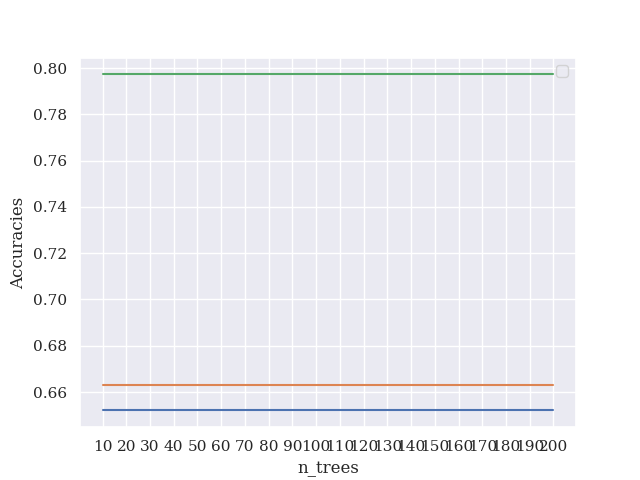
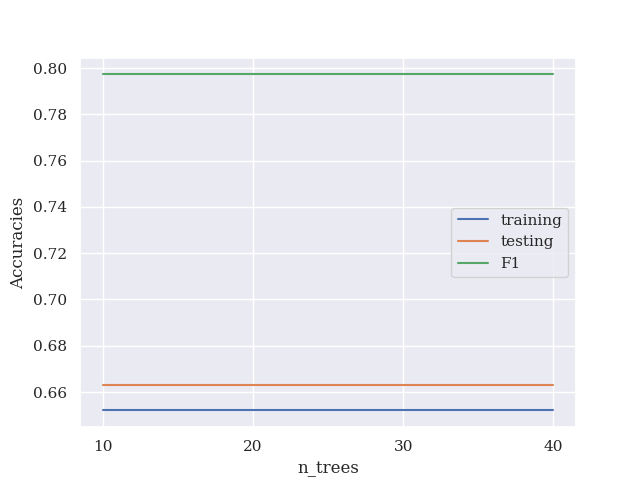
Added subsampling ability to decisiontreeclassifier

diff --git a/src/tree.py b/src/tree.py
@@ -3,177 +3,194 @@ import random
 from statistics import mode
 
 class Node():
-    """
-    Node of decision tree
+	"""
+	Node of decision tree
 
-    Parameters:
-    -----------
-    prediction: int
-        Class prediction at this node
-    feature: int
-        Index of feature used for splitting on
-    split: int
-        Categorical value for the threshold to split on for the feature
-    left_tree: Node
-        Left subtree
-    right_tree: Node
-        Right subtree
-    """
-    def __init__(self, prediction, feature, split, left_tree, right_tree):
-        self.prediction = prediction
-        self.feature = feature
-        self.split = split
-        self.left_tree = left_tree
-        self.right_tree = right_tree
+	Parameters:
+	-----------
+	prediction: int
+		Class prediction at this node
+	feature: int
+		Index of feature used for splitting on
+	split: int
+		Categorical value for the threshold to split on for the feature
+	left_tree: Node
+		Left subtree
+	right_tree: Node
+		Right subtree
+	"""
+	def __init__(self, prediction, feature, split, left_tree, right_tree):
+		self.prediction = prediction
+		self.feature = feature
+		self.split = split
+		self.left_tree = left_tree
+		self.right_tree = right_tree
 
 
 class DecisionTreeClassifier():
-    """
-    Decision Tree Classifier. Class for building the decision tree and making predictions
+	"""
+	Decision Tree Classifier. Class for building the decision tree and making predictions
 
-    Parameters:
-    ------------
-    max_depth: int
-        The maximum depth to build the tree. Root is at depth 0, a single split makes depth 1 (decision stump)
-    """
+	Parameters:
+	------------
+	max_depth: int
+		The maximum depth to build the tree. Root is at depth 0, a single split makes depth 1 (decision stump)
+	"""
 
-    def __init__(self, max_depth=None):
-        self.max_depth = max_depth
+	def __init__(self, max_depth=None, max_features=0):
+		self.max_depth = max_depth
+		self.max_features = max_features
+		
+	# take in features X and labels y
+	# build a tree
+	def fit(self, X, y):
+		self.num_classes = len(set(y))
+		self.root = self.build_tree(X, y, depth=1)
+		
 
-    # take in features X and labels y
-    # build a tree
-    def fit(self, X, y):
-        self.num_classes = len(set(y))
-        self.root = self.build_tree(X, y, depth=1)
+	# make prediction for each example of features X
+	def predict(self, X):
+		preds = [self._predict(example) for example in X]
 
-    # make prediction for each example of features X
-    def predict(self, X):
-        preds = [self._predict(example) for example in X]
+		return preds
 
-        return preds
+	# prediction for a given example
+	# traverse tree by following splits at nodes
+	def _predict(self, example):
+		node = self.root
+		while node.left_tree:
+			if example[node.feature] < node.split:
+				node = node.left_tree
+			else:
+				node = node.right_tree
+		return node.prediction
 
-    # prediction for a given example
-    # traverse tree by following splits at nodes
-    def _predict(self, example):
-        node = self.root
-        while node.left_tree:
-            if example[node.feature] < node.split:
-                node = node.left_tree
-            else:
-                node = node.right_tree
-        return node.prediction
+	# accuracy
+	def accuracy_score(self, X, y):
+		preds = self.predict(X)
+		accuracy = (preds == y).sum()/len(y)
+		return accuracy
 
-    # accuracy
-    def accuracy_score(self, X, y):
-        preds = self.predict(X)
-        accuracy = (preds == y).sum()/len(y)
-        return accuracy
+	# function to build a decision tree
+	def build_tree(self, X, y, depth):
+		num_samples, num_features = X.shape
+		# which features we are considering for splitting on
+		self.features_idx = np.arange(0, X.shape[1])
 
-    # function to build a decision tree
-    def build_tree(self, X, y, depth):
-        num_samples, num_features = X.shape
-        # which features we are considering for splitting on
-        self.features_idx = np.arange(0, X.shape[1])
+		# store data and information about best split
+		# used when building subtrees recursively
+		best_feature = None
+		best_split = None
+		best_gain = 0.0
+		best_left_X = None
+		best_left_y = None
+		best_right_X = None
+		best_right_y = None
 
-        # store data and information about best split
-        # used when building subtrees recursively
-        best_feature = None
-        best_split = None
-        best_gain = 0.0
-        best_left_X = None
-        best_left_y = None
-        best_right_X = None
-        best_right_y = None
+		# what we would predict at this node if we had to
+		# majority class
+		num_samples_per_class = [np.sum(y == i) for i in range(self.num_classes)]
+		prediction = np.argmax(num_samples_per_class)
+		
+		# Added code to let RandomForest bag the features
+		if(self.max_features):
+			max_features = []
+			temp_feat = list(self.features_idx)
+			
+			for i in range(self.max_features):
+				rand = random.randint(0,len(temp_feat)-1)
+				max_features.append(temp_feat[rand])
+				temp_feat.pop(rand)
 
-        # what we would predict at this node if we had to
-        # majority class
-        num_samples_per_class = [np.sum(y == i) for i in range(self.num_classes)]
-        prediction = np.argmax(num_samples_per_class)
+		# If no max_features were specified when creating this tree, we don't subsample
+		else:
+			max_features = self.features_idx
+		print("max_features: {}".format(max_features))
 
-        # if we haven't hit the maximum depth, keep building
-        if depth <= self.max_depth:
-            # consider each feature
-            for feature in self.features_idx:
-                # consider the set of all values for that feature to split on
-                possible_splits = np.unique(X[:, feature])
-                for split in possible_splits:
-                    # get the gain and the data on each side of the split
-                    # >= split goes on right, < goes on left
-                    gain, left_X, right_X, left_y, right_y = self.check_split(X, y, feature, split)
-                    # if we have a better gain, use this split and keep track of data
-                    if gain > best_gain:
-                        best_gain = gain
-                        best_feature = feature
-                        best_split = split
-                        best_left_X = left_X
-                        best_right_X = right_X
-                        best_left_y = left_y
-                        best_right_y = right_y
-        
-        # if we haven't hit a leaf node
-        # add subtrees recursively
-        if best_gain > 0.0:
-            left_tree = self.build_tree(best_left_X, best_left_y, depth=depth+1)
-            right_tree = self.build_tree(best_right_X, best_right_y, depth=depth+1)
-            return Node(prediction=prediction, feature=best_feature, split=best_split, left_tree=left_tree, right_tree=right_tree)
+		# if we haven't hit the maximum depth, keep building
+		if depth <= self.max_depth:
+			# consider each feature
+			for feature in max_features:
+				# consider the set of all values for that feature to split on
+				possible_splits = np.unique(X[:, feature])
+				for split in possible_splits:
+					# get the gain and the data on each side of the split
+					# >= split goes on right, < goes on left
+					gain, left_X, right_X, left_y, right_y = self.check_split(X, y, feature, split)
+					# if we have a better gain, use this split and keep track of data
+					if gain > best_gain:
+						best_gain = gain
+						best_feature = feature
+						best_split = split
+						best_left_X = left_X
+						best_right_X = right_X
+						best_left_y = left_y
+						best_right_y = right_y
+		
+		# if we haven't hit a leaf node
+		# add subtrees recursively
+		if best_gain > 0.0:
+			left_tree = self.build_tree(best_left_X, best_left_y, depth=depth+1)
+			right_tree = self.build_tree(best_right_X, best_right_y, depth=depth+1)
+			return Node(prediction=prediction, feature=best_feature, split=best_split, left_tree=left_tree, right_tree=right_tree)
 
-        # if we did hit a leaf node
-        return Node(prediction=prediction, feature=best_feature, split=best_split, left_tree=None, right_tree=None)
-
-
-    # gets data corresponding to a split by using numpy indexing
-    def check_split(self, X, y, feature, split):
-        left_idx = np.where(X[:, feature] < split)
-        right_idx = np.where(X[:, feature] >= split)
-        left_X = X[left_idx]
-        right_X = X[right_idx]
-        left_y = y[left_idx]
-        right_y = y[right_idx]
+		# if we did hit a leaf node
+		return Node(prediction=prediction, feature=best_feature, split=best_split, left_tree=None, right_tree=None)
 
 
-        # calculate gini impurity and gain for y, left_y, right_y
-        gain = self.calculate_gini_gain(y, left_y, right_y)
-        return gain, left_X, right_X, left_y, right_y
+	# gets data corresponding to a split by using numpy indexing
+	def check_split(self, X, y, feature, split):
+		left_idx = np.where(X[:, feature] < split)
+		right_idx = np.where(X[:, feature] >= split)
+		left_X = X[left_idx]
+		right_X = X[right_idx]
+		left_y = y[left_idx]
+		right_y = y[right_idx]
 
-    def calculate_gini_gain(self, y, left_y, right_y):
-        # not a leaf node
-        # calculate gini impurity and gain
-        gain = 0
-        if len(left_y) > 0 and len(right_y) > 0:
 
-            ########################################
-            #       YOUR CODE GOES HERE            #
-            ########################################
-            left_yes = 0
-            left_no = 0
-            right_yes = 0
-            right_no = 0
+		# calculate gini impurity and gain for y, left_y, right_y
+		gain = self.calculate_gini_gain(y, left_y, right_y)
+		return gain, left_X, right_X, left_y, right_y
 
-            for i in left_y:
-                if i == 0:
-                    left_no += 1
-                else:
-                    left_yes += 1
+	def calculate_gini_gain(self, y, left_y, right_y):
+		# not a leaf node
+		# calculate gini impurity and gain
+		gain = 0
+		if len(left_y) > 0 and len(right_y) > 0:
 
-            for i in right_y:
-                if i == 0:
-                    right_no += 1
-                else:
-                    right_yes += 1
+			########################################
+			#       YOUR CODE GOES HERE            #
+			########################################
+			left_yes = 0
+			left_no = 0
+			right_yes = 0
+			right_no = 0
 
-            total = len(left_y) + len(right_y)
-            #calculate all impurities and return gain
-            gini_left = 1 - np.square(left_yes/(left_yes+left_no)) - np.square(left_no/(left_yes+left_no))
-            gini_right = 1 - np.square(right_yes/(right_yes+right_no)) - np.square(right_no/(right_yes+right_no))
-            gain = ((left_yes+left_no)/total) * gini_left + ((right_yes + right_no)/total) * gini_right
+			for i in left_y:
+				if i == 0:
+					left_no += 1
+				else:
+					left_yes += 1
 
-            return gain
-        # we hit leaf node
-        # don't have any gain, and don't want to divide by 0
-        else:
-            return 0
+			for i in right_y:
+				if i == 0:
+					right_no += 1
+				else:
+					right_yes += 1
 
-          
+			total = len(left_y) + len(right_y)
+			#calculate all impurities and return gain
+			gini_left = 1 - np.square(left_yes/(left_yes+left_no)) - np.square(left_no/(left_yes+left_no))
+			gini_right = 1 - np.square(right_yes/(right_yes+right_no)) - np.square(right_no/(right_yes+right_no))
+			gain = ((left_yes+left_no)/total) * gini_left + ((right_yes + right_no)/total) * gini_right
+
+			return gain
+		# we hit leaf node
+		# don't have any gain, and don't want to divide by 0
+		else:
+			return 0
+
+		  
 class RandomForestClassifier():
 	"""
 	Random Forest Classifier. Build a forest of decision trees.
@@ -206,7 +223,7 @@ class RandomForestClassifier():
 			print(i+1, end='\t\r')
 
 			# Essentially the fit function from DecisionTreeClassifier
-			tree = DecisionTreeClassifier(self.max_depth)
+			tree = DecisionTreeClassifier(self.max_depth, self.max_features)
 			tree.num_classes = len(set(bagged_y))
 			self.num_classes.append(len(set(bagged_y)))
 			self.root.append(tree.build_tree(bagged_X, bagged_y, 0))

diff --git a/src/main.py b/src/main.py
@@ -20,7 +20,7 @@ def load_args():
 	parser.add_argument('--ada_boost', default=1, type=int)
 	parser.add_argument('--root_dir', default='../data/', type=str)
 	args = parser.parse_args()
- 
+
 	return args
 
 
@@ -62,7 +62,7 @@ def random_forest_testing(x_train, y_train, x_test, y_test):
 	test_list = []
 	F1_list = []
 	
-	for i in range(10,30,10):
+	for i in range(10,50,10):
 		rclf = RandomForestClassifier(max_depth=7, max_features=11, n_trees=i)
 		rclf.fit(x_train, y_train)
 		preds_train = rclf.predict(x_train)
@@ -80,7 +80,7 @@ def random_forest_testing(x_train, y_train, x_test, y_test):
 		F1_list.append(f1(y_test, preds))
 	
 	plt.rcParams['font.family'] = ['serif']
-	x = range(10,30,10)
+	x = range(10,50,10)
 	ax = plt.subplot(111)
 	ax.plot(x, train_list, label='training') 
 	ax.plot(x, test_list, label='testing')
@@ -118,11 +118,14 @@ def ft_random_forest_testing(x_train, y_train, x_test, y_test):
 	
 	plt.rcParams['font.family'] = ['serif']
 	x = [1, 2, 5, 8, 10, 20, 25, 35, 50]
-	plt.plot(x, train_list, x, test_list, x, F1_list)
-	plt.xlabel("# of max_features")
+	ax = plt.subplot(111)
+	ax.plot(x, train_list, label='training') 
+	ax.plot(x, test_list, label='testing')
+	ax.plot(x, F1_list, label='F1')
+	plt.xlabel("max_features")
 	plt.xticks(x)
 	plt.ylabel("Accuracies")
-	plt.legend("train", "test", "F1")
+	ax.legend()
 	plt.savefig("RandomForestFeatures.png")
 	plt.clf()
 
